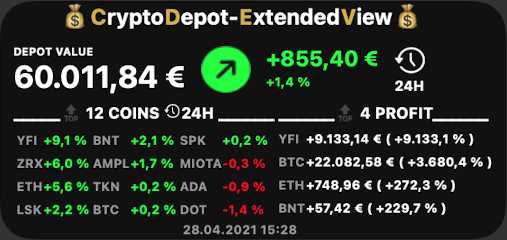
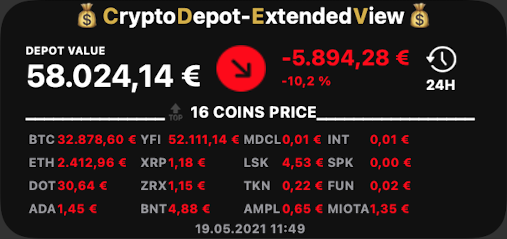
New Version 0.3 -> Medium Widget has now only Coin Prices

diff --git a/README.md b/README.md
@@ -3,7 +3,7 @@ A JavaScript for Scriptable, showing your personal crypto-balances in a widget!
 
 [![Last Commit](https://img.shields.io/github/last-commit/martlgap/CryptoWidget)](https://img.shields.io/github/last-commit/martlgap/CryptoWidget)
 [![License](https://img.shields.io/badge/license-CC0-blue)](https://img.shields.io/badge/license-CC0-blue)
-[![Version](https://img.shields.io/badge/version-0.2-purple)](https://img.shields.io/badge/version-0.1-purple)
+[![Version](https://img.shields.io/badge/version-0.3-purple)](https://img.shields.io/badge/version-0.3-purple)
 [![License](https://img.shields.io/badge/plugin-scriptable-blue)](https://img.shields.io/badge/plugin-scriptable-blue)
 
 
